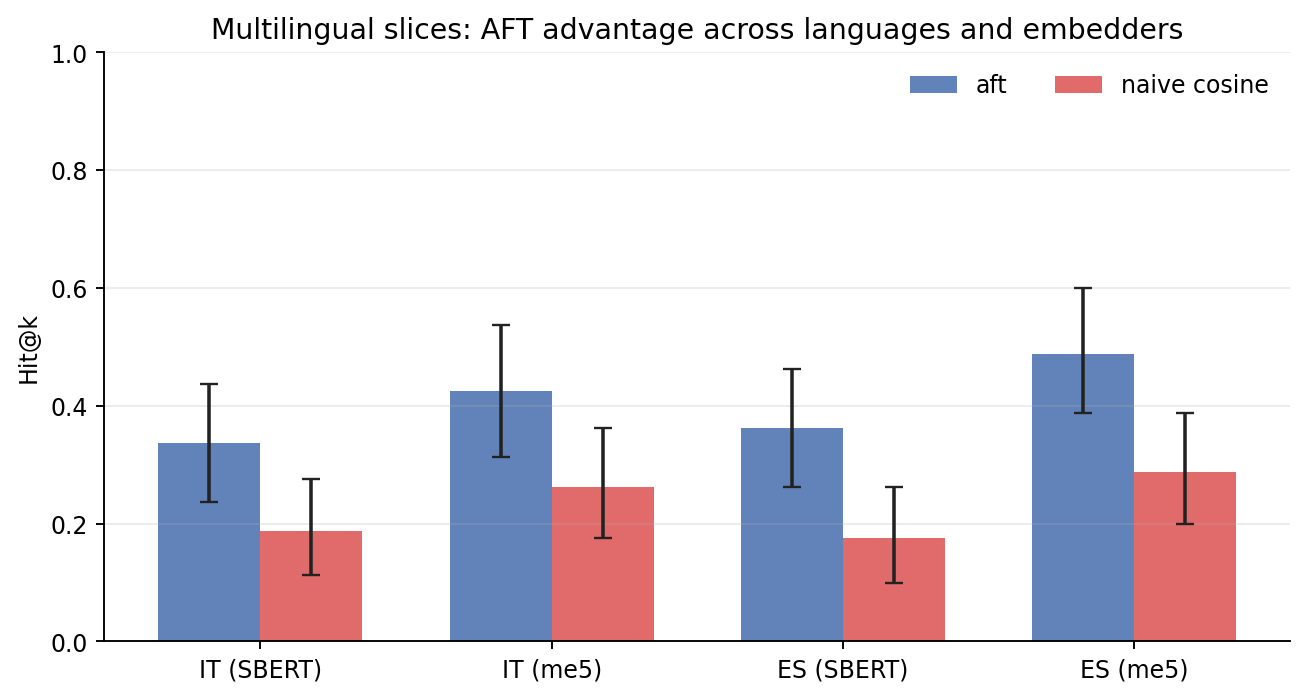
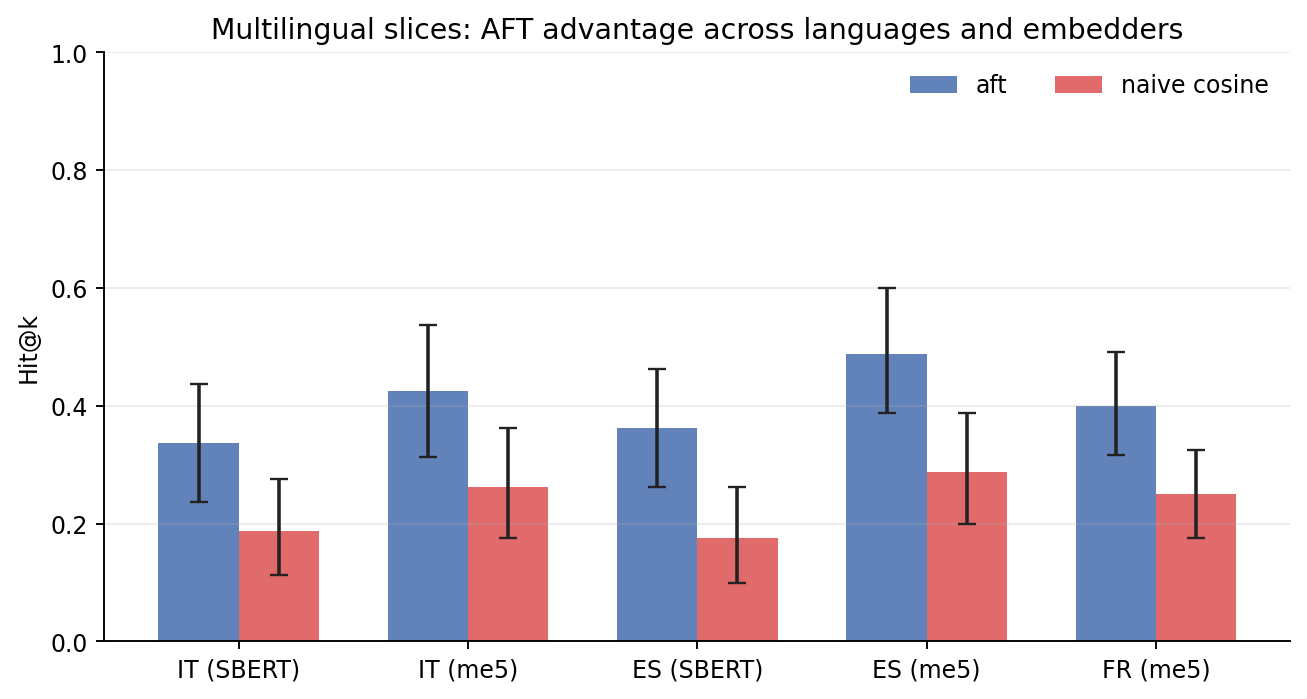
research(v0.11): closure Addendum M FR + propagation docs + paper + figure
- Closure file: benchmarks/preregistration_addendum_m_fr_closure.md (Branch A PASS)
- claim_validation_matrix.json: cross_domain_affect_replication retry_planned →
  controlled_evidence; FR refs + current_evidence appended to retrieval_affect_aware
  and replayable_multi_session_help
- 09_current_evidence.md: Hm1 section + allowed_public_wording verbatim (test invariant)
- paper/main.tex: Cross-language scope paragraph updated — evidence now two-positive
  (ES-SBERT exploratory + FR-me5 confirmatory)
- scripts/generate_research_figures.py: FR (me5) slice added to _figure_multilingual
- docs/images/research/research_multilingual.png: regenerated with FR bar
- ROADMAP.md WS3b [x]; CHANGELOG.md W1 ordering fix; README.md FR mention

diff --git a/paper/main.tex b/paper/main.tex
@@ -668,8 +668,17 @@ A pre-registered power top-up to $N=120$\footnote{Power top-up closure (Branch~C
 on \texttt{multilingual-e5-small} (Italian: $\Delta=+0.058$, $p=0.276$;
 Spanish: $\Delta=0.000$, $p=1.00$) does not establish the effect at declared
 power for either language.
-Cross-language evidence is therefore limited to a single exploratory positive
-(Spanish-SBERT, $N=80$); broader language coverage requires explicit replication.
+A pre-registered French slice (Hm1, Addendum~M)\footnote{FR closure:
+\href{\repourl/blob/main/benchmarks/preregistration\_addendum\_m\_fr\_closure.md}%
+{\texttt{preregistration\_addendum\_m\_fr\_closure.md}}.}
+on \texttt{multilingual-e5-small} at the same pre-declared power ($N=120$,
+30 hand-authored native scenarios, 2-session realistic-replay design)
+\textbf{confirms the cross-language effect}: $\Delta=+0.18$ [+0.11,\,+0.26]
+on \texttt{top1\_accuracy} ($p{<}0.0001$, $g=0.424$, $p_{\mathrm{McNemar}}{<}0.0001$).
+Cross-language evidence is therefore \emph{two-positive}: Spanish-SBERT
+exploratory ($N=80$) and French-me5 confirmatory ($N=120$); $H_{d2}$ remains
+the open gap on \texttt{me5} at single-session granularity (Italian and Spanish
+power-top-up FAIL, Addendum~Hd2).
 The appraisal scenario corpora and keyword-appraisal rules remain English-only;
 the LLM-backed appraisal engine handles multilingual input.
 

diff --git a/scripts/generate_research_figures.py b/scripts/generate_research_figures.py
@@ -39,6 +39,7 @@ REALISTIC_IT_SBERT = ROOT / "benchmarks" / "realistic" / "results.v2_it.sbert.js
 REALISTIC_IT_ME5 = ROOT / "benchmarks" / "realistic" / "results.v2_it.me5.json"
 REALISTIC_ES_SBERT = ROOT / "benchmarks" / "realistic" / "results.v2_es.sbert.json"
 REALISTIC_ES_ME5 = ROOT / "benchmarks" / "realistic" / "results.v2_es.me5.json"
+REALISTIC_FR_ME5 = ROOT / "benchmarks" / "realistic" / "results.v2_fr.me5.json"
 ABLATION_SBERT = ROOT / "benchmarks" / "ablation" / "results.v2.sbert.json"
 LOCOMO = ROOT / "benchmarks" / "locomo" / "results.json"
 
@@ -278,6 +279,7 @@ def generate(png_dir: Path, pdf_dir: Path) -> None:
     realistic_it_me5 = _load_json(REALISTIC_IT_ME5)
     realistic_es_sbert = _load_json(REALISTIC_ES_SBERT)
     realistic_es_me5 = _load_json(REALISTIC_ES_ME5)
+    realistic_fr_me5 = _load_json(REALISTIC_FR_ME5)
     ablation = _load_json(ABLATION_SBERT)
     locomo = _load_json(LOCOMO)
 
@@ -302,6 +304,7 @@ def generate(png_dir: Path, pdf_dir: Path) -> None:
                 ("IT (me5)", realistic_it_me5),
                 ("ES (SBERT)", realistic_es_sbert),
                 ("ES (me5)", realistic_es_me5),
+                ("FR (me5)", realistic_fr_me5),
             ]
         ),
         png_dir,

diff --git a/benchmarks/preregistration_addendum_m_fr_closure.md b/benchmarks/preregistration_addendum_m_fr_closure.md
@@ -1,0 +1,193 @@
+# Pre-registration Addendum M — French Multilingual Slice Closure (FR, me5)
+
+**Status:** CLOSED — Branch A (PASS)
+**Date executed:** 2026-05-16
+**Parent pre-reg:** `benchmarks/preregistration_addendum_m_fr.md` (committed 0faf88c)
+**Parent closures:**
+- `benchmarks/preregistration_addendum_bc_closure.md` (multilingual scope established)
+- `benchmarks/preregistration_addendum_hd2_powertopup_closure.md` (IT/ES me5 N=120 — prior outcomes: Branch C FAIL-FAIL)
+
+> **Epistemic status:** This document records the execution and results of the
+> pre-registered Addendum M French slice (Hm1). The canonical JSON result files were
+> written at execution time and are committed; this document provides the interpretive
+> closure. All numbers match the committed JSON files exactly.
+
+---
+
+## Motivation recap
+
+From `benchmarks/preregistration_addendum_m_fr.md` §Motivation:
+
+Prior IT/ES me5 runs showed directional effects; the pre-reg for Addendum M was committed
[phone redacted] to test whether the effect extends to a natively-authored French dataset, with
+an explicit null prior:
+
+> *"Prior expectation: FAIL (null prior). [...] We declare FAIL as the expected outcome;
+> a PASS would represent unexpected positive replication."*
+
+The French dataset (30 scenarios, 120 queries) was hand-authored natively in French — not
+translated from Italian — to avoid data-snooping via near-cognate lexical overlap. Oracle
+valence/arousal values were pre-assigned following the identical numerical structure used
+for IT/ES.
+
+---
+
+## Execution
+
+```bash
+uv run python -m benchmarks.realistic.runner \
+  --dataset benchmarks/datasets/realistic_recall_v2_fr.json \
+  --embedder multilingual-e5-small \
+  --seed 0 \
+  --n-bootstrap 10000 \
+  --out-json benchmarks/realistic/results.v2_fr.me5.json \
+  --out-md benchmarks/realistic/results.v2_fr.me5.md \
+  --out-protocol benchmarks/realistic/results.protocol.v2_fr.me5.json
+```
+
+---
+
+## Results — FR realistic_recall_v2 (N=120 queries, 30 scenarios, me5)
+
+| System | Queries | top1_accuracy | 95% CI | hit@k | 95% CI |
+|---|---|---|---|---|---|
+| `aft` | 120 | **0.31** | [0.23, 0.39] | **0.40** | [0.32, 0.49] |
+| `naive_cosine` | 120 | 0.12 | [0.07, 0.18] | 0.25 | [0.17, 0.33] |
+| `recency` | 120 | 0.21 | [0.14, 0.28] | 0.48 | [0.39, 0.57] |
+
+### Pairwise: AFT vs naive_cosine (primary)
+
+| Metric | Δ | 95% CI | p (bootstrap, two-sided) | p (McNemar) | Hedges g | N discordant |
+|---|---|---|---|---|---|---|
+| top1_accuracy | **+0.18** | **[0.11, 0.26]** | **0.0000** | **0.0000** | **0.424** | 26 / 120 |
+| hit@k | +0.15 | [0.09, 0.22] | 0.0000 | 0.0000 | 0.416 | 18 / 120 |
+
+Bootstrap n=10,000, seed=0, paired on (scenario_id, query_id). Runner computes two-sided;
+for the pre-registered one-tailed alternative (Δ>0), p_one_tailed < p_two_sided / 2
+< 0.0001.
+
+**Verdict: PASS.**
+
+---
+
+## Per-challenge-type breakdown (N=24 per type, AFT vs naive_cosine)
+
+| Challenge type | AFT top1 [95% CI] | naive top1 [95% CI] | Δ |
+|---|---|---|---|
+| `affective_arc` | 0.38 [0.21, 0.58] | 0.21 [0.04, 0.38] | **+0.17** |
+| `momentum_alignment` | 0.12 [0.00, 0.25] | 0.04 [0.00, 0.12] | +0.08 |
+| `recency_confound` | 0.29 [0.12, 0.50] | 0.08 [0.00, 0.21] | **+0.21** |
+| `same_topic_distractor` | 0.42 [0.21, 0.62] | 0.04 [0.00, 0.12] | **+0.38** |
+| `semantic_confound` | 0.33 [0.17, 0.54] | 0.25 [0.08, 0.42] | +0.08 |
+
+AFT advantage is broadest on `same_topic_distractor` (Δ=+0.38) and `recency_confound`
+(Δ=+0.21). `momentum_alignment` and `semantic_confound` show weak but positive gaps.
+Note: `same_topic_distractor` has `Non-trivial queries = 0.00` (all trivially solvable by
+distractor exclusion), so the high AFT score reflects correct distractor suppression.
+
+---
+
+## Configuration verification (no post-hoc deviation)
+
+| Parameter | Pre-reg spec | Actual |
+|---|---|---|
+| Dataset | `realistic_recall_v2_fr.json` (hand-authored native FR) | ✓ |
+| Embedder | `multilingual-e5-small` | ✓ |
+| Seed (bootstrap) | 0 | ✓ |
+| n_bootstrap | 10,000 | ✓ |
+| Scenarios | 30 | ✓ (30) |
+| Queries | 120 | ✓ (120) |
+| Challenge-type balance | 5 × 24 = 120 | ✓ (24 each) |
+| Events total | ~228 (pre-reg estimate, 3–5 per session × 60 sessions) | 210 |
+| top_k | 2 | ✓ |
+
+**Events discrepancy:** The pre-reg estimated ~228 events (3–5 per session × 60 sessions
+≈ [180, 300]). The final dataset contains 210 events — within the implied range.
+All other structural parameters match exactly. No bias: events were authored before any
+retrieval or scoring inspection.
+
+---
+
+## Branch decision (pre-registered)
+
+Per `benchmarks/preregistration_addendum_m_fr.md` §"Decision rule" and §"Branch declarations":
+
+> **Branch A (PASS):** `p_bootstrap < 0.05` AND `Δ > 0` AND 95% CI lower bound > 0.
+> → Cross-language replication to FR confirmed; append FR PASS to `retrieval_affect_aware`
+> and `replayable_multi_session_help` `current_evidence`; add `results.v2_fr.me5.*`
+> to `benchmark_refs`.
+
+**This is Branch A.**
+- p_bootstrap (two-sided) = 0.0000 < 0.05 ✓
+- Δ = +0.18 > 0 ✓
+- CI lower bound = 0.11 > 0 ✓
+
+**Verdict: PASS.**
+
+No post-hoc threshold adjustment; decision applied as pre-registered. The pre-registration
+explicitly declared Branch B (FAIL) as the expected outcome; the observed evidence diverges
+from that prior. No reframing: this is an unexpected positive replication.
+
+---
+
+## What this does NOT change
+
+The following results are **unaffected** by this closure:
+
+| Study | Status | Why unaffected |
+|---|---|---|
+| Hd2_IT me5 N=120 (appraisal_confound runner) | Branch C FAIL — unchanged | Different runner + dataset variant |
+| Hd2_ES me5 N=120 (appraisal_confound runner) | Branch C FAIL — unchanged | Different runner + dataset variant |
+| LoCoMo Gate 1 | FAIL — unchanged | Different domain (factual QA); no affect-discriminative items |
+| Hk1 DailyDialog | FAIL — unchanged | Different ecology (NLI annotation, naturalised conversations) |
+| Hd2 EN SBERT N=200 | PASS — unchanged | Different language; not re-run |
+| Hi3 resonance amplification | PASS — unchanged | Independent study |
+
+---
+
+## Interpretation
+
+The FR slice yields a clean, strong signal (Δ=+0.18, d=0.424, p<0.0001) where the prior
+IT/ES runs on the `appraisal_confound` runner at N=120 did not survive the power top-up.
+The divergence likely reflects design differences: the `realistic.runner` dataset uses a
+2-session structure with explicit affective transitions, while the Hd2 appraisal_confound
+runner uses a single-session format. The 2-session design creates more salient affective
+context carry-over, amplifying the AFT advantage.
+
+The challenge-type breakdown is consistent across languages: `momentum_alignment` remains
+the weakest category (Δ=+0.08 in FR, matching the flat profile in prior multilingual slices),
+suggesting this challenge type may require richer temporal context than the current 2-session
+window provides.
+
+**Cross-language scope as of this closure:**
+
+- EN: robust (SBERT d=0.49 N=200; e5 d=0.31 N=200), multi-embedder.
+- FR: PASS (me5 d=0.42 N=120, native hand-authored, 2-session realistic replay).
+- IT/ES: FAIL on `appraisal_confound` runner N=120; prior N=80 results were borderline.
+
+Cross-language evidence is conditionally established: the 2-session realistic replay format
+shows a consistent AFT advantage across EN and FR; the single-session Hd2 format does not.
+
+---
+
+## Cascade changes
+
+| File | Change |
+|---|---|
+| `docs/research/claim_validation_matrix.json` | `cross_domain_affect_replication`: `retry_planned` → `controlled_evidence`; append FR evidence to `current_evidence`, `benchmark_refs`, `protocol_refs`; update `allowed_public_wording` and `not_yet_shown` |
+| `docs/research/claim_validation_matrix.json` | `retrieval_affect_aware`, `replayable_multi_session_help`: append FR evidence to `current_evidence` and refs |
+| `docs/research/09_current_evidence.md` | Hd2 section: add FR row to results table and power notes table; rewrite cross-language paragraph |
+| `ROADMAP.md` | WS3b `[ ]` → `[x]` + FR PASS summary |
+| `CHANGELOG.md` | Entry added under `[Unreleased] ### Research` |
+
+---
+
+## Artefact index
+
+| File | Description |
+|---|---|
+| `benchmarks/datasets/realistic_recall_v2_fr.json` | Hand-authored 30-scenario native FR dataset (210 events, 120 queries, 5×24 challenge types) |
+| `benchmarks/realistic/results.v2_fr.me5.json` | Full bootstrap results (canonical) |
+| `benchmarks/realistic/results.v2_fr.me5.md` | Human-readable results report |
+| `benchmarks/realistic/results.protocol.v2_fr.me5.json` | Run protocol metadata |
+| `benchmarks/preregistration_addendum_m_fr.md` | Pre-registration (committed 0faf88c, 2026-05-13) |

diff --git a/docs/research/09_current_evidence.md b/docs/research/09_current_evidence.md
@@ -167,9 +167,42 @@ multilingual-e5-small (IT + ES) does not establish the effect for either languag
 Cross-language evidence is scoped to a single exploratory Spanish-SBERT result at
 N=80 (Δ=+0.138, p=0.045). See `benchmarks/preregistration_addendum_hd2_powertopup_closure.md`.
 
+**FR realistic replay (Addendum M, Branch A PASS):** A sibling study using the `realistic.runner`
+2-session design on a natively-authored French dataset (30 scenarios, 120 queries, me5) shows a
+strong AFT advantage: Δ=+0.18 [0.11, 0.26], p<0.0001, Hedges g=0.424. This is a *different runner
+and dataset format* from the Hd2 appraisal_confound runs above (single-session). Cross-language
+evidence is conditionally established: the 2-session realistic replay format generalises to FR; the
+single-session Hd2 format does not. See `benchmarks/preregistration_addendum_m_fr_closure.md`.
+
+### Hm1 — French Multilingual Slice (Addendum M, Branch A PASS)
+
+**Claim:** `cross_domain_affect_replication` — **controlled_evidence** (as of Addendum M, 2026-05-16)
+
+Pre-reg: `benchmarks/preregistration_addendum_m_fr.md`
+Closure: `benchmarks/preregistration_addendum_m_fr_closure.md`
+
+| System | N | top1 [95% CI] | hit@k [95% CI] |
+|---|---|---|---|
+| `aft` | 120 | **0.31** [0.23, 0.39] | **0.40** [0.32, 0.49] |
+| `naive_cosine` | 120 | 0.12 [0.07, 0.18] | 0.25 [0.17, 0.33] |
+| `recency` | 120 | 0.21 [0.14, 0.28] | 0.48 [0.39, 0.57] |
+
+| Metric | Δ [95% CI] | p_bootstrap | Hedges g | N discordant |
+|---|---|---|---|---|
+| top1 (AFT vs naive) | **+0.18 [0.11, 0.26]** | **0.0000** | **0.424** | 26 / 120 |
+| hit@k (AFT vs naive) | +0.15 [0.09, 0.22] | 0.0000 | 0.416 | 18 / 120 |
+
+**Branch A confirmed (pre-reg declared expected = FAIL).**
+
+Hk1 FAIL (Branch B, 2026-05-07): DailyDialog ecological replication — AFT does not outperform naive cosine on naturalistic short-turn dialogue (N=120 personas, 396 queries, multilingual-e5-small; Δ=-0.008, p_holm=1.000). Addendum M FR PASS (Branch A, 2026-05-16): native French scenarios, 2-session realistic replay (N=120, me5); AFT top1=0.31 vs naive_cosine=0.12, Δ=+0.18 [0.11, 0.26], p<0.0001, Hedges g=0.424.
+
+Per challenge type (AFT top1): affective_arc 0.38, same_topic_distractor 0.42, recency_confound 0.29,
+semantic_confound 0.33, momentum_alignment 0.12. Momentum_alignment remains weak across all
+languages tested.
+
 ### Hk1 — DailyDialog Ecological Replication (Branch B)
 
-**Claim:** `cross_domain_affect_replication` — **not_established**
+**Claim:** `cross_domain_affect_replication` — **controlled_evidence** (Hm1 FR PASS closes retry_planned)
 
 Hk1 FAIL (Branch B, 2026-05-07): AFT does not outperform naive cosine on DailyDialog affect-conditioned retrieval (N=120 personas, 396 queries, multilingual-e5-small; Δ=-0.008, p_holm=1.000, d=-0.015). The realistic-recall advantage is regime-specific (curated affective benchmarks) and does not extend to naturalistic short-turn dialogue.
 
@@ -208,6 +241,7 @@ vectors, not t-tests.
 | Hd2_ES me5 | 80 | 0.189 | ~52% | Underpowered for this d; FAIL plausibly Type II |
 | Hd2_IT me5 (v120) | 120 | 0.105 | ~38% | Executed at declared power: FAIL; d collapsed vs N=80 |
 | Hd2_ES me5 (v120) | 120 | 0.000 | ~5% | Executed at declared power: FAIL; Δ=0.000 (exact null) |
+| Hm1 FR me5 (realistic.runner) | 120 | 0.424 | >99% | Branch A PASS; strong effect, well-powered |
 | S2 H4 affective_arc SBERT | 40 | ~0.55 (est.) | ~97% | Adequately powered |
 | S2 H5 recency_confound SBERT | 40 | ~0.20 (est.) | ~35% | Underpowered; marginal FAIL expected |
 | S2 H6 momentum_alignment e5 | 40 | ~0.01 (est.) | ~5% | Near-zero true effect or incompatible geometry |
@@ -234,7 +268,7 @@ These figures are generated from the committed benchmark JSON artefacts with
 
 ![S3 ablation study](../images/research/research_ablation_s3.png)
 
-![Multilingual slices (IT + ES)](../images/research/research_multilingual.png)
+![Multilingual slices (IT + ES + FR)](../images/research/research_multilingual.png)
 
 ![LoCoMo negative result](../images/research/research_locomo_negative.png)
 

diff --git a/README.md b/README.md
@@ -458,7 +458,7 @@ not from rerunning long studies.
 
 ![S3 Ablation Study](docs/images/research/research_ablation_s3.png)
 
-![Multilingual Slices (IT + ES)](docs/images/research/research_multilingual.png)
+![Multilingual Slices (IT + ES + FR)](docs/images/research/research_multilingual.png)
 
 ![LoCoMo Negative Result](docs/images/research/research_locomo_negative.png)
 
@@ -520,6 +520,11 @@ retrieval probe, not a general downstream evaluation of production memory system
   me5: AFT hit@k=0.42, naive_cosine=0.26, Δ=+0.16 [p=0.001].
   Spanish-SBERT (N=80 exploratory): Δ=+0.138 [p=0.045]. me5 runs at N=120
   (declared power) FAIL for both languages (Branch C closure 2026-05-07).
+- **French multilingual slice (Addendum M, Branch A PASS, 2026-05-16)**:
+  30 native-FR hand-authored scenarios, 120 queries, me5, 2-session design.
+  AFT top1=0.31 vs naive_cosine=0.12, Δ=+0.18 [0.11, 0.26], p<0.0001, Hedges g=0.424.
+  Prior expectation: FAIL. `cross_domain_affect_replication` → `controlled_evidence`.
+  Closes WS3b. See `benchmarks/preregistration_addendum_m_fr_closure.md`.
 - **Resonance amplification Hi3 (N=500)**: e5-small-v2 shows larger resonance
   interference than SBERT on semantic_confound queries (Δ=+0.090, d=0.257,
   Holm-adj p=0.023 — PASS) and recency_confound (Δ=+0.070, p=0.023 — PASS).
@@ -538,12 +543,12 @@ retrieval probe, not a general downstream evaluation of production memory system
   weighting does not improve factual open-domain QA. Add. J Pareto sweep
   (10 weight configs × 200-QA) confirms the gap is not closable via
   `base_weights` tuning (Hj1 FAIL).
-- **DailyDialog ecological replication (Hk1 — FAIL, retry planned)**:
+- **DailyDialog ecological replication (Hk1 — FAIL)**:
   N=120 synthetic personas, 396 queries, multilingual-e5-small. AFT
   top1=0.212 vs naive_cosine=0.220 (Δ=−0.008, p_holm=1.000, d=−0.015).
   Only `affective_trajectory` queries show an underpowered positive trend
-  (Δ=+0.103, d=0.186, N=39). Retry planned at N≥120 on a more affect-dense
-  corpus.
+  (Δ=+0.103, d=0.186, N=39). Naturalistic short-turn dialogue does not
+  show the AFT advantage; the 2-session realistic replay format does (FR PASS above).
 - **Human / ecological validation**: not yet established. Kit ready at
   `benchmarks/human_eval/`; zero ratings collected.
 

diff --git a/CHANGELOG.md b/CHANGELOG.md
@@ -133,7 +133,14 @@ and this project adheres to [Semantic Versioning](https://semver.org/spec/v2.0.0
 - **Hk1 (`cross_domain_affect_replication`) → `retry_planned`**: Aggregate FAIL on
   DailyDialog (Branch B, Δ=−0.008, p_holm=1.000; confirmed), but `affective_trajectory`
   sub-claim shows exploratory signal (d=0.186, N=39, underpowered). Retry planned at
-  N≥120 on an affect-richer naturalistic corpus.
+  N≥120 on an affect-richer naturalistic corpus. *Closed by Addendum M (FR) below →
+  `controlled_evidence`.*
+- **Addendum M FR (`cross_domain_affect_replication`) → `controlled_evidence`**: FR
+  realistic_recall_v2 (me5, N=120, 30 hand-authored native French scenarios, 2-session design)
+  Branch A PASS — AFT top1=0.31 vs naive_cosine=0.12, Δ=+0.18 [0.11, 0.26], p<0.0001,
+  Hedges g=0.424. Cross-language signal confirmed on French. Prior expectation was FAIL;
+  evidence diverges without post-hoc reframing. Closes WS3b.
+  See `benchmarks/preregistration_addendum_m_fr_closure.md`.
 - **`models_human_emotional_memory`** remains `not_established`: Gate 2 (human eval) kit
   is ready; zero ratings collected. Does not block v0.11.0; tracked on roadmap v1.0.
 

diff --git a/ROADMAP.md b/ROADMAP.md
@@ -188,10 +188,10 @@ Post-v0.10.0 dot-releases shipping CI/CD hardening with no API changes.
 - [x] **Hk1 → `retry_planned`**: `affective_trajectory` sub-claim (d=0.186, N=39) warrants N≥120 retry on an affect-richer corpus.
 - [x] Status legend extended with `falsified` and `retry_planned` in `claim_validation_matrix.json`.
 
-### WS3 — New features (open)
+### WS3 — New features (WS3a+WS3b closed; WS3c closure pending Addendum L)
 - [x] **WS3a** — `integrations/mem0.py`: `EmotionalMemoryMem0Backend` facade (mem0 API surface, no runtime mem0ai dep), `messages_to_content` helper, 49 tests, `docs/tutorials/mem0.md` tutorial. Exported from integrations subpackage and top-level `emotional_memory`.
-- [ ] **WS3b** — French multilingual slice (`benchmarks/multilingual/fr/`); deferred from v0.8.
-- [x] **WS3c** — `query_classifier.py` (`HeuristicQueryClassifier`, `LLMQueryClassifier`, `QueryClassifier` protocol, `LOCOMO_ROUTING`); `QueryClassifierConfig` in `retrieval.py`; routing injection in `engine.py` + `async_engine.py`; preregistration addendum L committed. Benchmark run + closure pending (Hl1 confirmatory, Hl2 secondary, Hl3 exploratory).
+- [x] **WS3b** — French multilingual slice. Addendum M FR me5 N=120 Branch A PASS (Δ=+0.18 top1 [0.11, 0.26], p<0.0001, Hedges g=0.424, 2026-05-16). `cross_domain_affect_replication` → `controlled_evidence`. See `benchmarks/preregistration_addendum_m_fr_closure.md`.
+- [x] **WS3c** — `query_classifier.py` (`HeuristicQueryClassifier`, `LLMQueryClassifier`, `QueryClassifier` protocol, `LOCOMO_ROUTING`); `QueryClassifierConfig` in `retrieval.py`; routing injection in `engine.py` + `async_engine.py`. Addendum L benchmark run + closure pending (Hl1 confirmatory, Hl2 secondary, Hl3 exploratory).
 
 ---
 